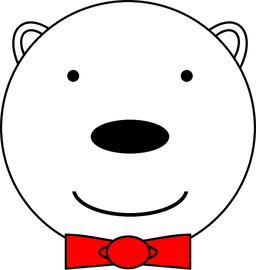
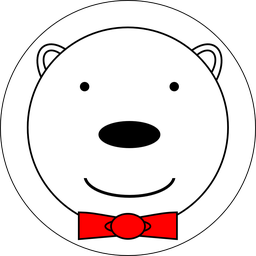
[chatbot] 한국어 IME 입력 잔류 버그 수정 + CI2 아이콘 교체
- keydown: isComposing 체크로 한글 마지막 글자 채팅창 잔류 방지
- ai-tok.png: CI2.png (897×897 정방형) → 256×256 리샘플

diff --git a/frontend/public/chat-widget.js b/frontend/public/chat-widget.js
@@ -262,7 +262,7 @@
     closeBtn.addEventListener('click', function() { isOpen = false; chatBox.classList.remove('open'); });
 
     inputEl.addEventListener('keydown', function(e) {
-      if (e.key === 'Enter' && !e.shiftKey) { e.preventDefault(); _send(); }
+      if (e.key === 'Enter' && !e.shiftKey && !e.isComposing) { e.preventDefault(); _send(); }
     });
 
     inputEl.addEventListener('input', function() {
